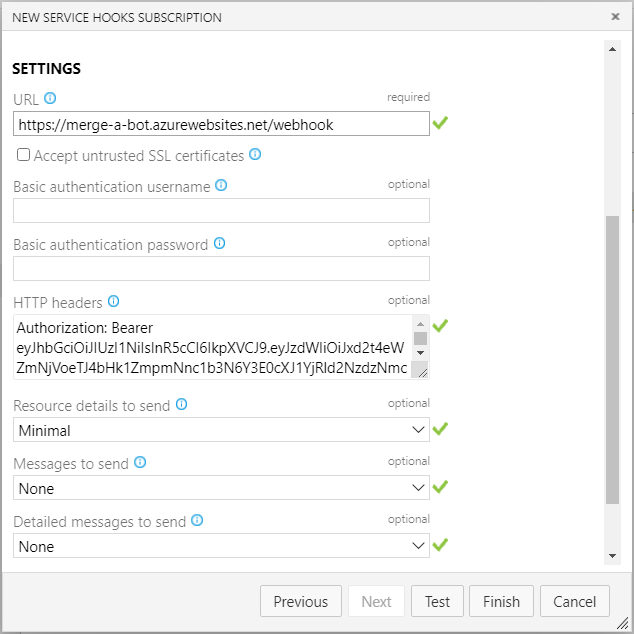
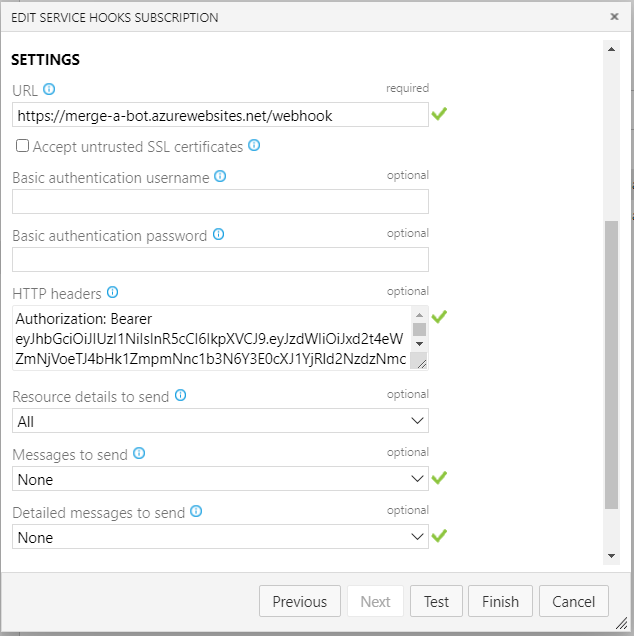
removing trobleshooting

Changed region(s): [[0.0, 0.0, 0.7192, 0.8691], [0.0, 0.0, 1.0, 1.0]]

diff --git a/server/src/MergeBot/Core/WebhookDeserializer.cs b/server/src/MergeBot/Core/WebhookDeserializer.cs
@@ -1,8 +1,6 @@
-using System;
-using System.IO;
+using System.IO;
 using System.Text.Json;
 using System.Threading.Tasks;
-using Microsoft.AspNetCore.Http;
 
 namespace MergeBot
 {
@@ -15,6 +13,9 @@ namespace MergeBot
 
         public static async ValueTask<GitPushEventPayload?> DeserializeAsync(Stream stream)
         {
+            //for troubleshooting
+            //using var sr = new StreamReader(stream);
+            //string content = await sr.ReadToEndAsync();
             var payload = await JsonSerializer.DeserializeAsync<GitPushEventPayload>(stream, s_serializerOptions);
             if (payload.EventType == GitPushEventResource.EventType)
                 return payload;

diff --git a/server/src/MergeBot/Startup.cs b/server/src/MergeBot/Startup.cs
@@ -124,7 +124,6 @@ namespace MergeBot
                 var azDoClient = azDoClientFactory.Create(pat);
                 if (payload != null)
                 {
-                    logger.LogInformation("Received request for {RepositoryUrl}", payload.Resource.Repository.Url);
                     var organization = new Uri(payload.Resource.Repository.Url).Segments[1].TrimEnd('/');
                     var factoryContext = new MergePolicyRunnerFactoryContext(azDoClient, payload.Resource.Repository.Id, organization);
                     var runner = await runnerFactory.CreateAsync(factoryContext);

diff --git a/docs/webhook-setup.md b/docs/webhook-setup.md
@@ -35,7 +35,7 @@ Merge-a-Bot needs to listen for branch changes in order to run merge policies. T
 
 ![hook trigger](images/hook-trigger.png?raw=true)
 
-6. In the Action step, for "URL" enter `https://merge-a-bot.azurewebsites.net/webhook` and for HTTP headers enter `Authorization: Bearer {merge-a-bot-token}`. This is the token generated in step 2, not the Azure DevOps PAT!
+6. In the Action step, for "URL" enter `https://merge-a-bot.azurewebsites.net/webhook` and for HTTP headers enter `Authorization: Bearer {merge-a-bot-token}`. This is the token generated in step 2, not the Azure DevOps PAT! For "Resource details to send" keep the default option of "All". Set "Messages to send" and "Detailed messages to send" to "None".
 
 ![hook settings](images/hook-settings.png?raw=true)
 
